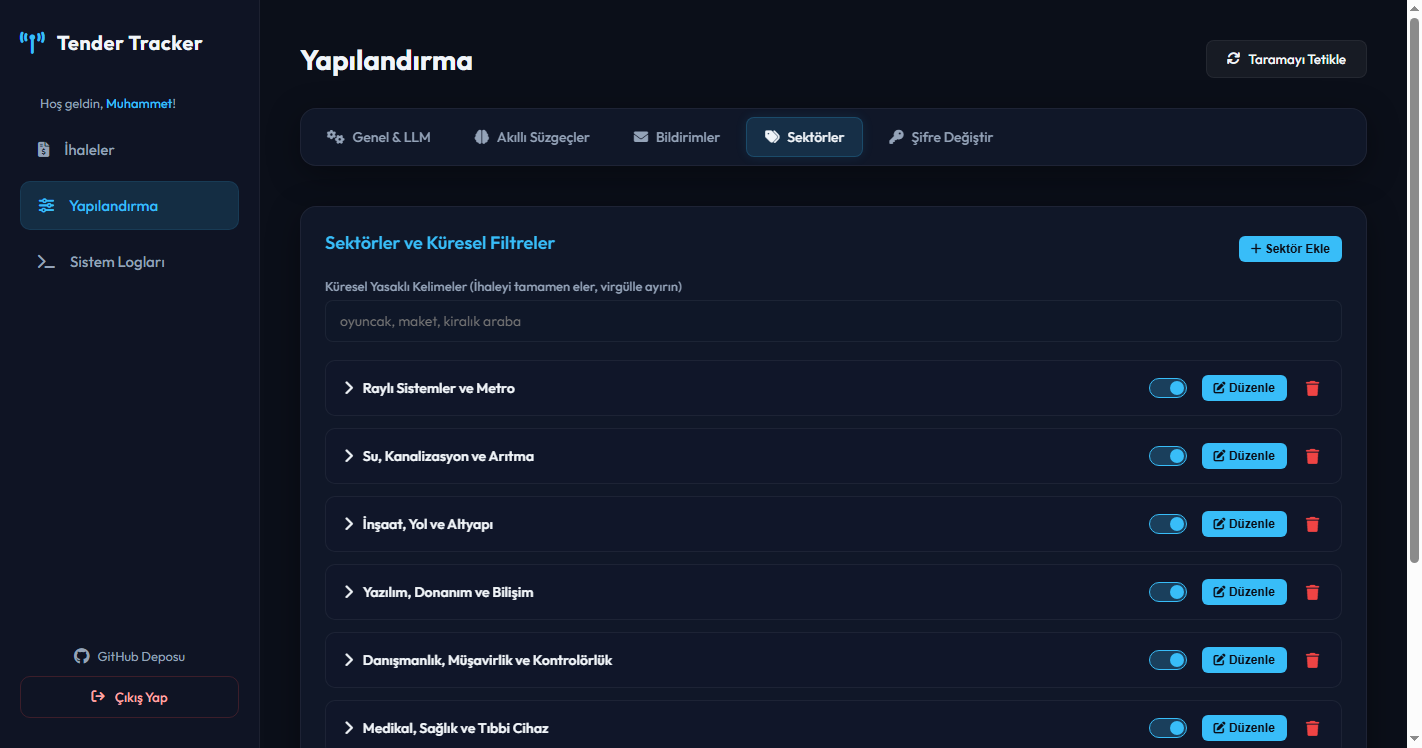
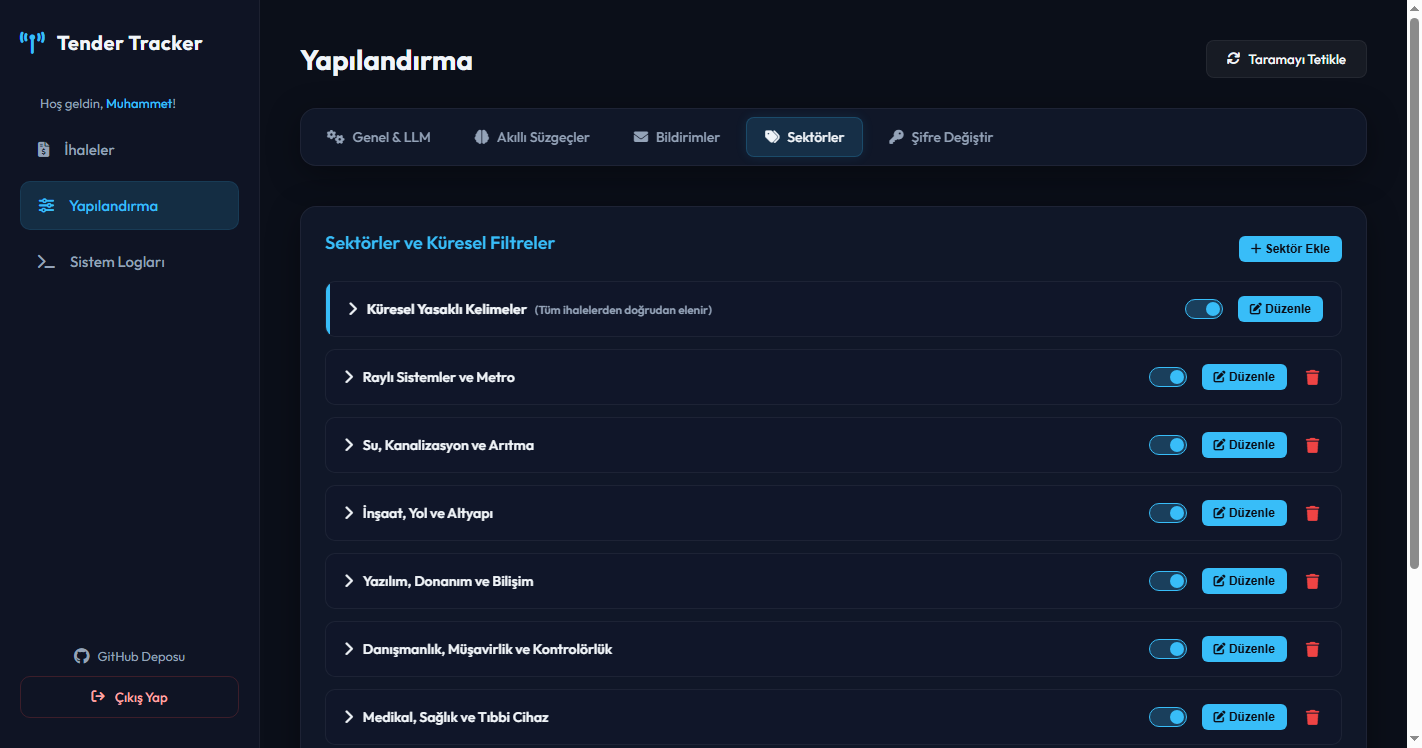
feat: render global exclude keywords as a fixed, toggleable, and editable accordion card at the top of sectors list

diff --git a/static/js/app.js b/static/js/app.js
@@ -108,6 +108,7 @@ document.addEventListener("DOMContentLoaded", () => {
     let loadedConfig = null;
     let localCustomFilters = [];
     let localSectors = {};
+    let globalFiltersEnabled = true;
 
     // Theme configuration
     let selectedThemeKey = "cyan";
@@ -683,6 +684,7 @@ document.addEventListener("DOMContentLoaded", () => {
         
         localCustomFilters = filters.custom_llm_filters || [];
         localSectors = sectors;
+        globalFiltersEnabled = filters.enabled !== false;
 
         // Populate port & interval
         cfgServerPort.value = settings.server_port || 8000;
@@ -875,43 +877,68 @@ document.addEventListener("DOMContentLoaded", () => {
     // --- Sectors Accordion Sub-Module ---
     function renderSectorsAccordion() {
         sectorsAccordionContainer.innerHTML = "";
+        
+        // 1. Render Fixed Global Exclude Keywords Card
+        const globalCard = document.createElement("div");
+        globalCard.className = "sector-acc-card";
+        
+        const globalKeywords = cfgExcludeKeywords.value.split(",").map(k => k.trim()).filter(k => k);
+        
+        globalCard.innerHTML = `
+            <div class="sector-acc-header" style="border-left: 4px solid var(--primary-color);">
+                <div class="sector-acc-title">
+                    <i class="fa-solid fa-chevron-right acc-arrow"></i>
+                    <span><strong>Küresel Yasaklı Kelimeler</strong> <small style="color: var(--text-secondary); margin-left: 5px;">(Tüm ihalelerden doğrudan elenir)</small></span>
+                </div>
+                <div class="sector-acc-actions">
+                    <label class="switch" title="Küresel Yasaklı Kelimeleri Etkinleştir / Devre Dışı Bırak">
+                        <input type="checkbox" id="global-exclude-toggle" ${globalFiltersEnabled !== false ? "checked" : ""}>
+                        <span class="slider"></span>
+                    </label>
+                    <button type="button" class="btn-small-primary btn-edit-global-exclude"><i class="fa-solid fa-edit"></i> Düzenle</button>
+                </div>
+            </div>
+            <div class="sector-acc-body d-none">
+                <p style="margin-top: 15px; font-size: 13px;"><strong>Yasaklı Kelimeler:</strong> ${globalKeywords.length > 0 ? globalKeywords.join(", ") : "<em>Tanımlanmamış</em>"}</p>
+            </div>
+        `;
+        sectorsAccordionContainer.appendChild(globalCard);
+        
+        // 2. Render other sectors
         const sectorNames = Object.keys(localSectors);
         
-        if (sectorNames.length === 0) {
-            sectorsAccordionContainer.innerHTML = '<div style="text-align: center; padding: 20px; color: var(--text-secondary);">Tanımlı sektör yok. Sektör ekle butonuyla ekleyin.</div>';
-            return;
+        if (sectorNames.length > 0) {
+            sectorNames.forEach((name) => {
+                const rules = localSectors[name] || {};
+                const keywords = rules.keywords || [];
+                const negativeKeywords = rules.negative_keywords || [];
+                
+                const card = document.createElement("div");
+                card.className = "sector-acc-card";
+                
+                card.innerHTML = `
+                    <div class="sector-acc-header">
+                        <div class="sector-acc-title">
+                            <i class="fa-solid fa-chevron-right acc-arrow"></i>
+                            <span>${name}</span>
+                        </div>
+                        <div class="sector-acc-actions">
+                            <label class="switch" title="Sektörü Etkinleştir / Devre Dışı Bırak">
+                                <input type="checkbox" class="sector-row-toggle" data-name="${name}" ${rules.enabled !== false ? "checked" : ""}>
+                                <span class="slider"></span>
+                            </label>
+                            <button type="button" class="btn-small-primary btn-edit-sector" data-name="${name}"><i class="fa-solid fa-edit"></i> Düzenle</button>
+                            <button type="button" class="btn-icon-red btn-delete-sector" data-name="${name}"><i class="fa-solid fa-trash"></i></button>
+                        </div>
+                    </div>
+                    <div class="sector-acc-body d-none">
+                        <p style="margin-top: 15px; font-size: 13px;"><strong>Anahtar Kelimeler:</strong> ${keywords.length > 0 ? keywords.join(", ") : "<em>Tanımlanmamış</em>"}</p>
+                        <p style="font-size: 13px;"><strong>Yasaklı Kelimeler:</strong> ${negativeKeywords.length > 0 ? negativeKeywords.join(", ") : "<em>Tanımlanmamış</em>"}</p>
+                    </div>
+                `;
+                sectorsAccordionContainer.appendChild(card);
+            });
         }
-
-        sectorNames.forEach((name) => {
-            const rules = localSectors[name] || {};
-            const keywords = rules.keywords || [];
-            const negativeKeywords = rules.negative_keywords || [];
-            
-            const card = document.createElement("div");
-            card.className = "sector-acc-card";
-            
-            card.innerHTML = `
-                <div class="sector-acc-header">
-                    <div class="sector-acc-title">
-                        <i class="fa-solid fa-chevron-right acc-arrow"></i>
-                        <span>${name}</span>
-                    </div>
-                    <div class="sector-acc-actions">
-                        <label class="switch" title="Sektörü Etkinleştir / Devre Dışı Bırak">
-                            <input type="checkbox" class="sector-row-toggle" data-name="${name}" ${rules.enabled !== false ? "checked" : ""}>
-                            <span class="slider"></span>
-                        </label>
-                        <button type="button" class="btn-small-primary btn-edit-sector" data-name="${name}"><i class="fa-solid fa-edit"></i> Düzenle</button>
-                        <button type="button" class="btn-icon-red btn-delete-sector" data-name="${name}"><i class="fa-solid fa-trash"></i></button>
-                    </div>
-                </div>
-                <div class="sector-acc-body d-none">
-                    <p style="margin-top: 15px; font-size: 13px;"><strong>Anahtar Kelimeler:</strong> ${keywords.length > 0 ? keywords.join(", ") : "<em>Tanımlanmamış</em>"}</p>
-                    <p style="font-size: 13px;"><strong>Yasaklı Kelimeler:</strong> ${negativeKeywords.length > 0 ? negativeKeywords.join(", ") : "<em>Tanımlanmamış</em>"}</p>
-                </div>
-            `;
-            sectorsAccordionContainer.appendChild(card);
-        });
 
         // Accordion Toggle
         document.querySelectorAll(".sector-acc-header").forEach(header => {
@@ -930,6 +957,35 @@ document.addEventListener("DOMContentLoaded", () => {
                 }
             });
         });
+
+        // Global exclude toggle switch listener
+        const globalToggle = document.getElementById("global-exclude-toggle");
+        if (globalToggle) {
+            globalToggle.addEventListener("change", async (e) => {
+                globalFiltersEnabled = globalToggle.checked;
+                await saveConfigToServer(false);
+            });
+        }
+
+        // Global exclude edit modal trigger listener
+        const editGlobalBtn = globalCard.querySelector(".btn-edit-global-exclude");
+        if (editGlobalBtn) {
+            editGlobalBtn.addEventListener("click", () => {
+                modalSectorOrigName.value = "__global_filters__";
+                modalSectorName.value = "Küresel Yasaklı Kelimeler";
+                modalSectorName.disabled = true;
+                
+                const currentKeywords = cfgExcludeKeywords.value.split(",").map(k => k.trim()).filter(k => k);
+                modalSectorKeywords.value = currentKeywords.join("\n");
+                modalSectorNegatives.value = "";
+                
+                document.getElementById("modal-sector-negatives").closest(".form-group").classList.add("d-none");
+                document.querySelector("label[for='modal-sector-keywords']").textContent = "Yasaklı Kelimeler (Her satıra bir tane yazın)";
+                
+                sectorModalTitle.textContent = "Küresel Yasaklı Kelimeler Düzenle";
+                openModal(sectorModal);
+            });
+        }
 
         // Sector row toggles
         document.querySelectorAll(".sector-row-toggle").forEach(el => {
@@ -952,8 +1008,12 @@ document.addEventListener("DOMContentLoaded", () => {
                 
                 modalSectorOrigName.value = name;
                 modalSectorName.value = name;
+                modalSectorName.disabled = false;
                 modalSectorKeywords.value = keywords.join("\n");
                 modalSectorNegatives.value = negativeKeywords.join("\n");
+                
+                document.getElementById("modal-sector-negatives").closest(".form-group").classList.remove("d-none");
+                document.querySelector("label[for='modal-sector-keywords']").textContent = "Anahtar Kelimeler (Her satıra bir tane yazın)";
                 
                 sectorModalTitle.textContent = "Sektör Düzenle";
                 openModal(sectorModal);
@@ -978,8 +1038,13 @@ document.addEventListener("DOMContentLoaded", () => {
     btnAddSector.addEventListener("click", () => {
         modalSectorOrigName.value = "";
         modalSectorName.value = "";
+        modalSectorName.disabled = false;
         modalSectorKeywords.value = "";
         modalSectorNegatives.value = "";
+        
+        document.getElementById("modal-sector-negatives").closest(".form-group").classList.remove("d-none");
+        document.querySelector("label[for='modal-sector-keywords']").textContent = "Anahtar Kelimeler (Her satıra bir tane yazın)";
+        
         sectorModalTitle.textContent = "Yeni Sektör Ekle";
         openModal(sectorModal);
     });
@@ -987,6 +1052,17 @@ document.addEventListener("DOMContentLoaded", () => {
     sectorModalForm.addEventListener("submit", async (e) => {
         e.preventDefault();
         const origName = modalSectorOrigName.value;
+        
+        if (origName === "__global_filters__") {
+            const keywords = modalSectorKeywords.value.split("\n").map(k => k.trim()).filter(k => k);
+            cfgExcludeKeywords.value = keywords.join(", ");
+            closeModal(sectorModal);
+            renderSectorsAccordion();
+            populateMainFilters();
+            await saveConfigToServer(false);
+            return;
+        }
+        
         const newName = modalSectorName.value.trim();
         
         if (!newName) return;
@@ -1110,6 +1186,7 @@ document.addEventListener("DOMContentLoaded", () => {
                     }
                 },
                 filters: {
+                    enabled: globalFiltersEnabled,
                     exclude_keywords: excludeList,
                     custom_llm_filters: localCustomFilters
                 }

diff --git a/static/index.html b/static/index.html
@@ -360,7 +360,7 @@
                                 <button type="button" id="btn-add-sector" class="btn-small-primary"><i class="fa-solid fa-plus"></i> Sektör Ekle</button>
                             </div>
                             
-                            <div class="form-group">
+                            <div class="form-group d-none">
                                 <label for="cfg-exclude-keywords">Küresel Yasaklı Kelimeler (İhaleyi tamamen eler, virgülle ayırın)</label>
                                 <input type="text" id="cfg-exclude-keywords" placeholder="oyuncak, maket, kiralık araba">
                             </div>

diff --git a/src/filter.py b/src/filter.py
@@ -13,6 +13,7 @@ class TenderFilter:
         from src.database import get_data_path
         self.config_path = config_path or get_data_path("config.yaml")
         self.exclude_keywords = []
+        self.enabled = True
         self.load_config()
 
     def load_config(self):
@@ -23,11 +24,10 @@ class TenderFilter:
             with open(self.config_path, "r", encoding="utf-8") as f:
                 config = yaml.safe_load(f)
                 if config:
-                    if "filters" in config:
-                        self.exclude_keywords = config["filters"].get("exclude_keywords", [])
-                    elif "global_filters" in config:
-                        self.exclude_keywords = config["global_filters"].get("exclude_keywords", [])
-            logger.info(f"Küresel filtreler yüklendi. {len(self.exclude_keywords)} adet dışlama kelimesi tanımlı.")
+                    filters_section = config.get("filters") or config.get("global_filters") or {}
+                    self.enabled = filters_section.get("enabled", True)
+                    self.exclude_keywords = filters_section.get("exclude_keywords", [])
+            logger.info(f"Küresel filtreler yüklendi (Etkin: {self.enabled}). {len(self.exclude_keywords)} adet dışlama kelimesi tanımlı.")
         except Exception as e:
             logger.error(f"Filtre yapılandırması yüklenirken hata: {e}")
 
@@ -35,6 +35,9 @@ class TenderFilter:
         """
         İhale başlığı veya açıklamasında dışlama kelimelerinden biri geçiyorsa True döner.
         """
+        if not self.enabled:
+            return False
+            
         t = title.lower()
         s = (summary or "").lower()
         